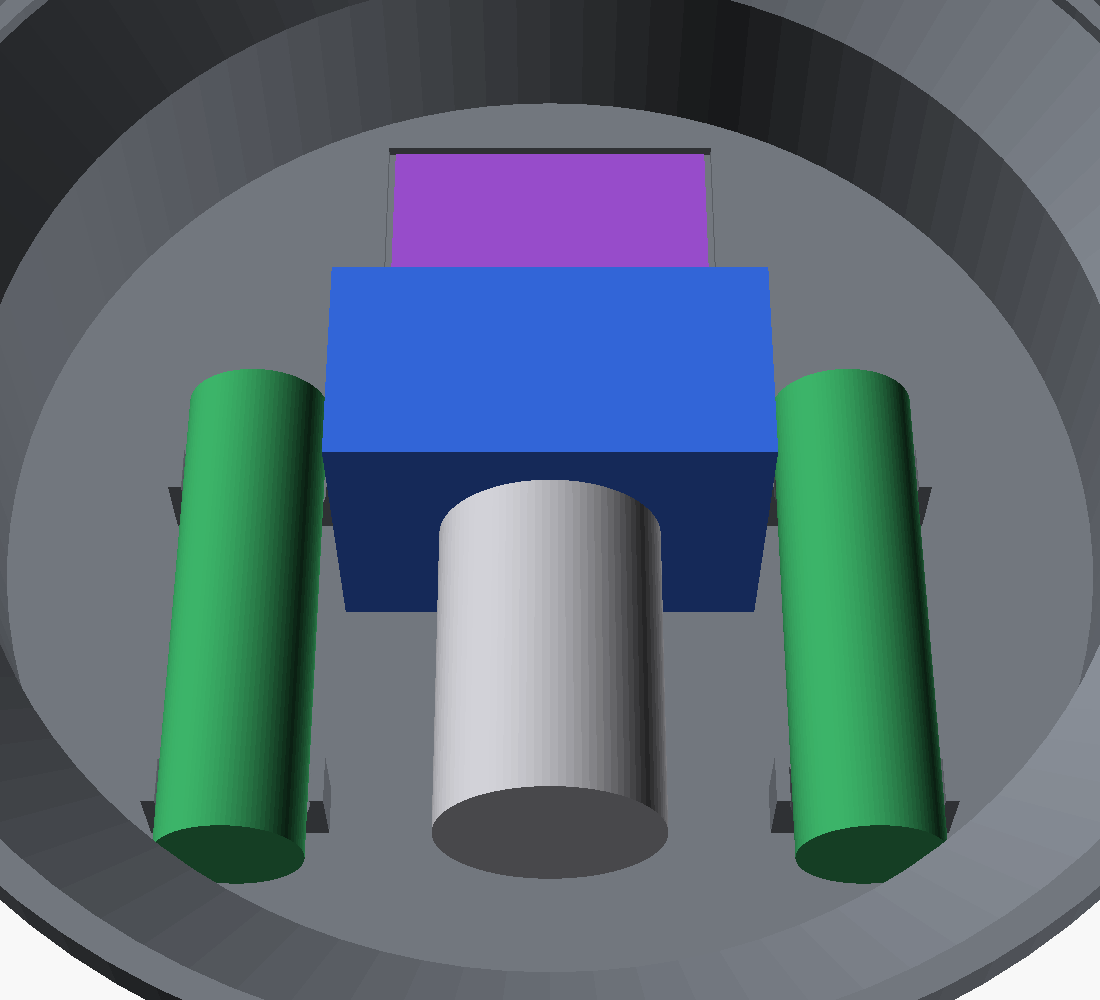
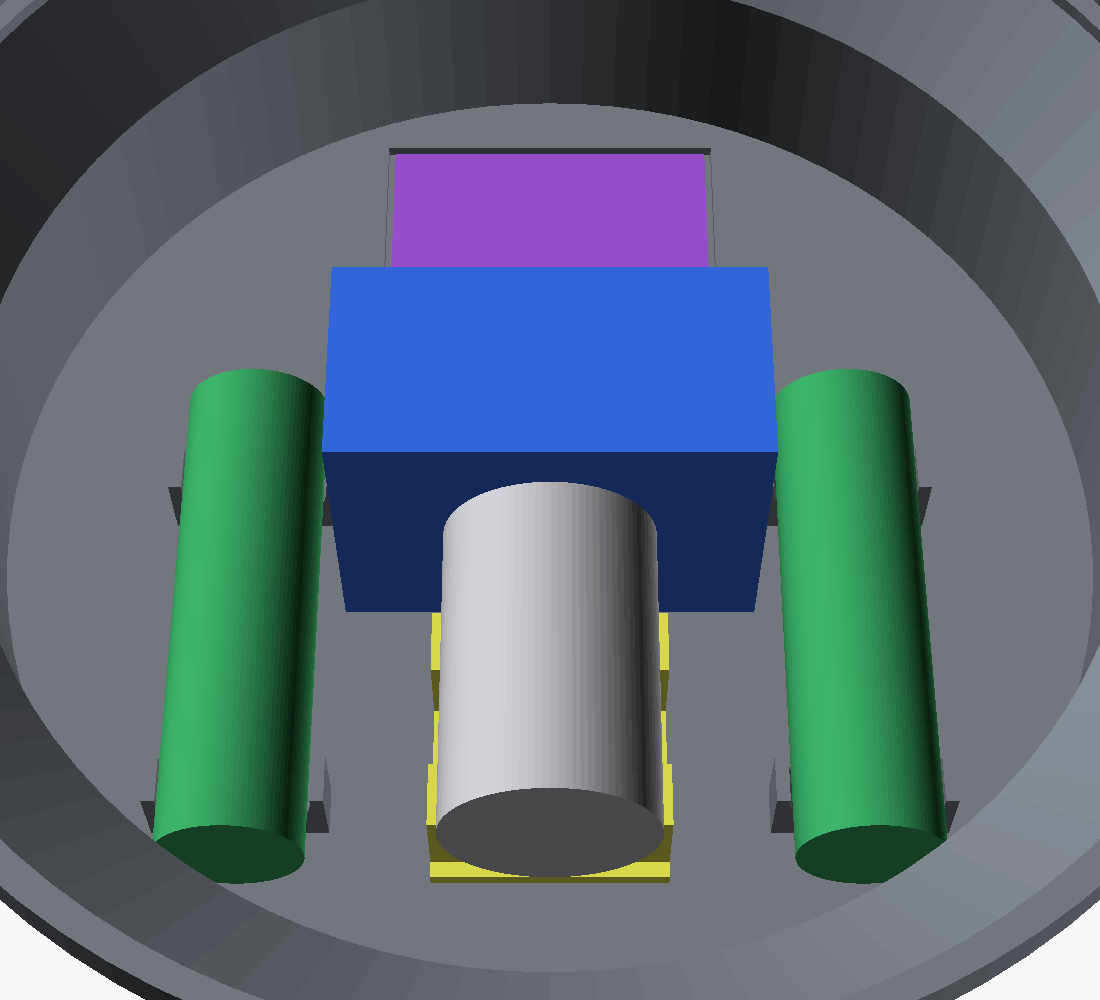
feat(orchid): pumpe-vugge til Kamoer NKP i bay'en
- pump_cradle.scad: separat print (~6g) med to 90°-V-sadler under motoren
  (tager Ø20-30) og strip-tunneler; sættes ned over to pinde på bay-gulvet
  (ingen huller i fodens gulv). Hovedet står på gulvet mod Qi-spolen
- nkp_motor_d / nkp_axis_h / nkp_head_d er skøn fra produktfoto → mål før
  print (±3mm motor-Ø flytter aksen ~2mm)
- Bay: to Ø3,5-pinde; assembly viser vuggen; nye renders 06 + 09

Verificeret: manifold; vugge vs. bay/motor/hoved/celler — ingen kollision;
en 0,8mm større motor rammer sadlerne (motoren hviler i V'en).

Changed region(s): [[0.3709, 0.527, 0.6182, 0.899], [0.4018, 0.496, 0.4327, 0.527]]

diff --git a/docs/shopping-list.md b/docs/shopping-list.md
@@ -14,6 +14,7 @@ vejledende BOM-estimater i DKK, uden fragt og told. Detaljer:
 | Valgfrit (ikke med) | 40 | 220 |
 
 Haves allerede: 5V USB-C-lader, Apple MagSafe 25W (orkidens ladebase er tegnet til den).
+Forudsat i skuffen: kabelstrips ≤3,6mm (2 til pumpe-vuggen), lim / tynd dobbeltklæbende tape.
 
 **"Kun til stripboard-prototypen"** er de dele, der sidder på printet. På et
 færdigt SMD-PCB loddes de i SMD eller følger med samleordren (fx JLCPCB), så
@@ -53,13 +54,13 @@ bestil først) · akvariebutik (sump-si) · byggemarked (bolte)
 
 ### Pumpe og sensorer
 
-| ✓   | Del                                             | Antal | Stk. |   I alt | Butik               | Note                                             |
-| --- | ----------------------------------------------- | ----: | ---: | ------: | ------------------- | ------------------------------------------------ |
-| [ ] | Kamoer NKP-DC-S10B 12V peristaltisk, børstet DC |     1 |  200 |     200 | AliExpress / Kamoer | Pris = skøn. 12V 0,3A, ≥70 ml/min                |
-| [ ] | Mini-float switch, lodret, M8-gevind            |     2 |   25 |      50 | AliExpress / Conrad | Beslagene har Ø8,5 hul                           |
-| [ ] | XKC-Y25-NPN berøringsfri niveausensor           |     1 |   40 |      40 | AliExpress          | Tjek udgangens polaritet                         |
-| [ ] | Passiv piezo-buzzer 12mm                        |     2 |    5 |      10 | AliExpress          | 1 til pot/                                       |
-|     | **Sum**                                         |       |      | **300** |                     |                                                  |
+| ✓   | Del                                             | Antal | Stk. |   I alt | Butik               | Note                              |
+| --- | ----------------------------------------------- | ----: | ---: | ------: | ------------------- | --------------------------------- |
+| [ ] | Kamoer NKP-DC-S10B 12V peristaltisk, børstet DC |     1 |  200 |     200 | AliExpress / Kamoer | Pris = skøn. 12V 0,3A, ≥70 ml/min |
+| [ ] | Mini-float switch, lodret, M8-gevind            |     2 |   25 |      50 | AliExpress / Conrad | Beslagene har Ø8,5 hul            |
+| [ ] | XKC-Y25-NPN berøringsfri niveausensor           |     1 |   40 |      40 | AliExpress          | Tjek udgangens polaritet          |
+| [ ] | Passiv piezo-buzzer 12mm                        |     2 |    5 |      10 | AliExpress          | 1 til pot/                        |
+|     | **Sum**                                         |       |      | **300** |                     |                                   |
 
 ### Strøm og ladning
 

diff --git a/pot-orchid/design-notes.md b/pot-orchid/design-notes.md
@@ -52,9 +52,15 @@ holder de åbne punkter.
       frigang pr. side; skulderen går ≥2mm fri af afsatsen.
 
 ### Mekanik
-- [ ] **Pumpe-vugge i bay'en:** NKP-mål bekræftet (67,5×54,5×41mm), men
-      flangens huller er ukendte → vugge med spændebånd om motoren. Plast-
-      hovedet vender mod Qi-spolen, motoren (metal/magneter) væk fra den.
+- [x] **Pumpe-vugge** (`pump_cradle.scad`, 2026-10-26): separat print (~6g)
+      med to 90°-V-sadler under motoren + strip-tunneler; sættes ned over to
+      pinde på bay-gulvet (ingen huller i fodens gulv). Hovedet står på gulvet,
+      plast-hovedet mod Qi-spolen.
+- [ ] **Mål NKP-pumpen før vuggen printes** (skøn fra produktfoto):
+      motor-Ø (`nkp_motor_d` = 27), motorakse over hovedets bund
+      (`nkp_axis_h` = 20,5) og hovedets dybde inkl. sort beslag
+      (`nkp_head_d` = 27). ±3mm motor-Ø flytter aksen ~2mm → pumpen hælder.
+      Printes vuggen i TPU, dæmper den også vibrationsstøj.
 - [x] **Pumpeslanger:** NKP har ingen studs — pumpeslangen (silikone ID 3 ×
       OD 5mm) forlænges med lige 3mm-slangesamlere til 3×5-slanger.
 - [x] **Ladning (ADR 013, besluttet 2026-10-21):** USB-C-hun-ende i toppen

diff --git a/pot-orchid/README.md b/pot-orchid/README.md
@@ -47,9 +47,10 @@ skålen — det løber over i ringen.
 
 - [cad/source/](cad/source/) — OpenSCAD: `params.scad`, `tank.scad`
   (ring + skål + skakt + float-beslag), `lid.scad`, `bay.scad`,
-  `charging_base.scad` (ladebase til MagSafe), `assembly.scad`
+  `charging_base.scad` (ladebase til MagSafe), `pump_cradle.scad` (vugge til
+  NKP-pumpen), `assembly.scad`
 - [cad/preview/](cad/preview/) — renders: iso, snit i hvile, snit under soak,
-  top, eksploderet, Qi i bay'en, ladebase, tårnet på ladebasen
+  top, eksploderet, layout i bay'en, ladebase, tårnet på ladebasen, pumpe-vugge
 - [preliminary-bom.md](preliminary-bom.md) — hvad der adskiller BOM'en fra pot/
 - [design-notes.md](design-notes.md) — åbne punkter og næste skridt
 - [references.md](references.md) — kilder og prior art

diff --git a/pot-orchid/preliminary-bom.md b/pot-orchid/preliminary-bom.md
@@ -47,6 +47,7 @@ switch-kredsløb — se nedenfor), Qi-modtager + lader + støvprop (44-46).
 | Sump-si | Rustfrit net / lille akvarie-si til 3×5mm-slange | ~15 DKK | Holder bark-smuld ude af pumpen |
 | Stænk-hætte | Printes (TPU/PETG) | — | TODO i CAD: skaktens top |
 | Ladebase | Printes (PETG/PLA), ~100g ved 15% infill | — | `charging_base.scad` — passer til Apple MagSafe 25W (pos 45) |
+| Pumpe-vugge | Printes (PETG eller TPU), ~6g + 2 kabelstrips | — | `pump_cradle.scad` — mål motor-Ø og aksehøjde først |
 
 ## Pin-allokering (orkide)
 

diff --git a/docs/decisions/012-orchid-v1-nursery-pot-ring-tank.md b/docs/decisions/012-orchid-v1-nursery-pot-ring-tank.md
@@ -117,7 +117,7 @@ luft, længere i kølig/fugtig. Intervallet kan ændres i HomeKit.
 ## Implementation notes
 
 - CAD: `pot-orchid/cad/source/` — `params.scad`, `tank.scad`, `lid.scad`,
-  `bay.scad`, `charging_base.scad`, `assembly.scad` (views iso | section |
+  `bay.scad`, `pump_cradle.scad`, `charging_base.scad`, `assembly.scad` (views iso | section |
   soaking | top | exploded | base | charging)
 - Beregnet: soak ~376 ml, lager ~880 ml efter USB-C-skakten (ADR 013)
   (reserve ~500 ml ≈ 3-5 uger), fyld/dræn ~5,4 min, højde til låg 133mm,
